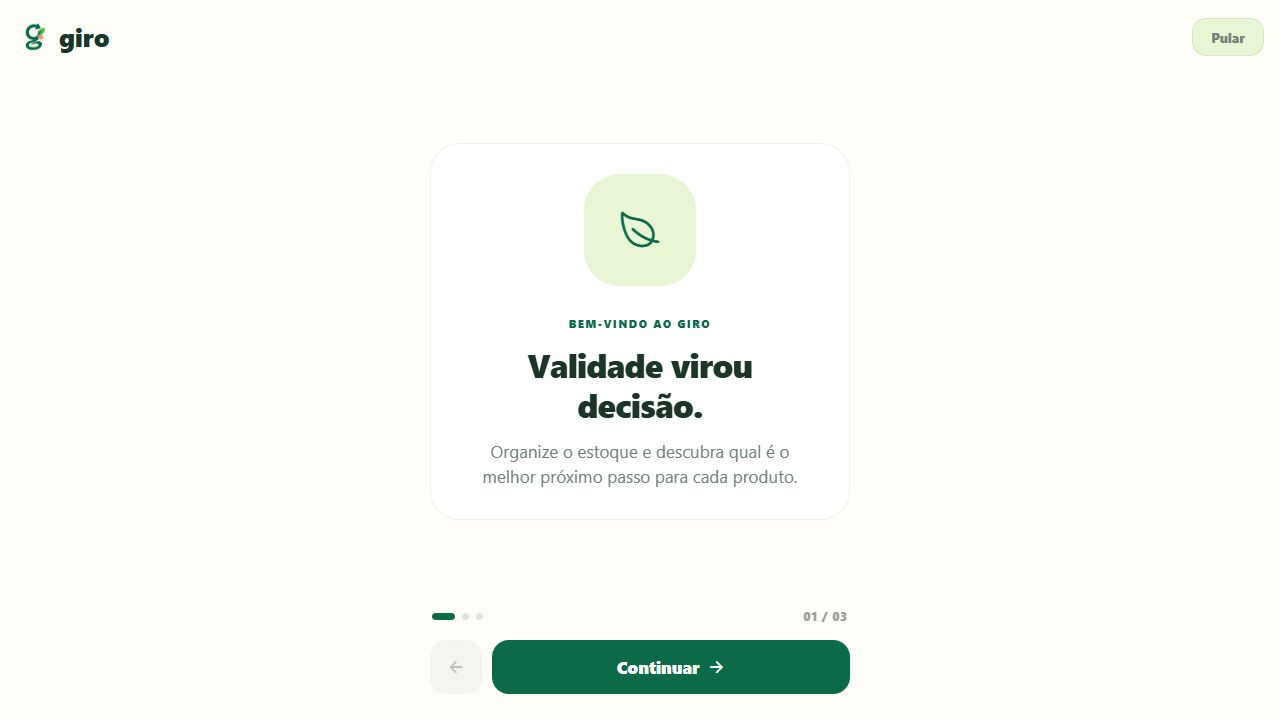
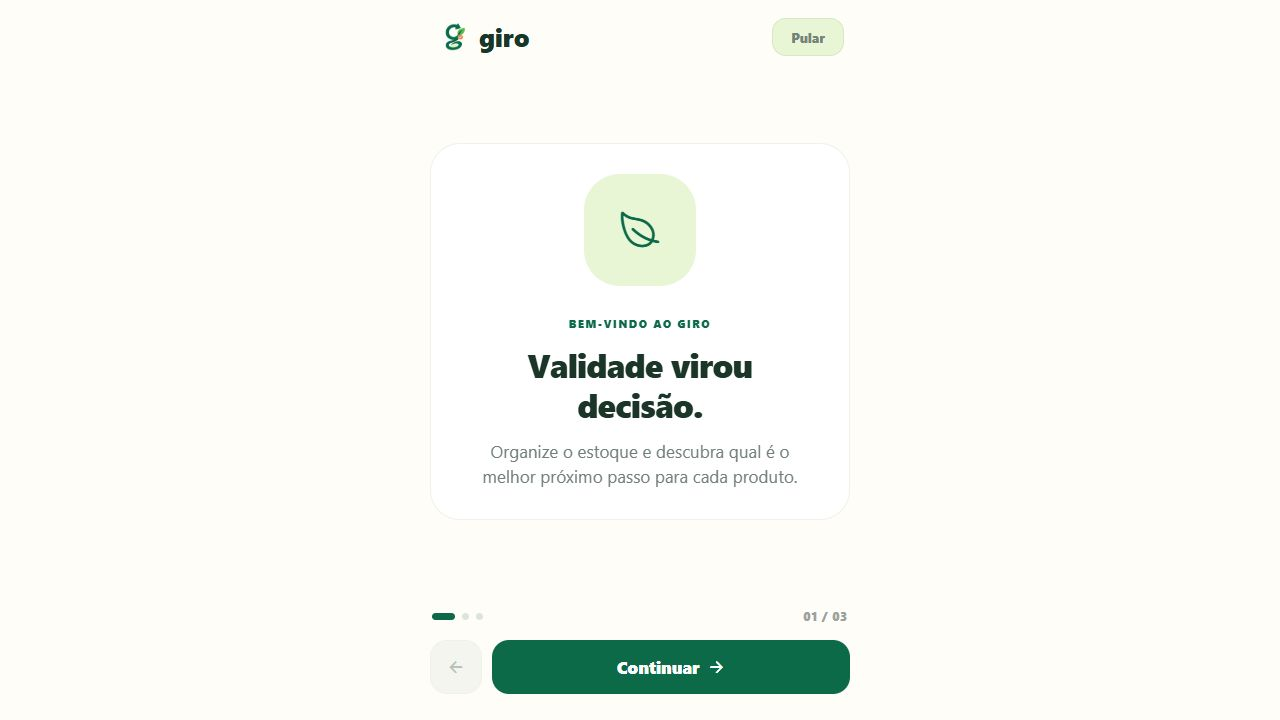
fix: afastar botao pular das margens

diff --git a/src/styles/appStyles.js b/src/styles/appStyles.js
@@ -140,7 +140,7 @@ const styles = StyleSheet.create({
   authBackText: { color: "#0D6A49", fontSize: 12, fontWeight: "800" },
   onboardingScreen: { flex: 1, backgroundColor: "#FFFDF8", paddingHorizontal: 16, paddingTop: 18, paddingBottom: 26 },
   onboardingScreenCompact: { paddingHorizontal: 18, paddingTop: 12, paddingBottom: 20 },
-  onboardingTop: { flexDirection: "row", alignItems: "center", justifyContent: "space-between", marginBottom: 8 },
+  onboardingTop: { width: "100%", maxWidth: 420, alignSelf: "center", flexDirection: "row", alignItems: "center", justifyContent: "space-between", paddingHorizontal: 6, marginBottom: 8 },
   onboardingBrand: { flexDirection: "row", alignItems: "center", gap: 7 },
   onboardingLogo: { width: 36, height: 36 },
   onboardingBrandText: { color: "#18362A", fontSize: 23, fontWeight: "900" },
